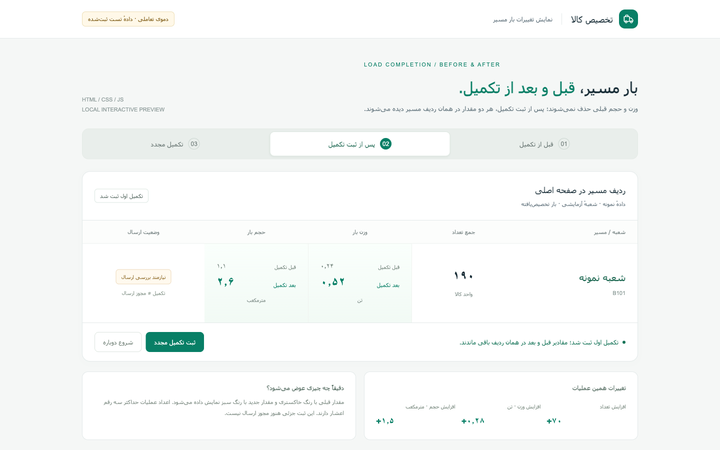
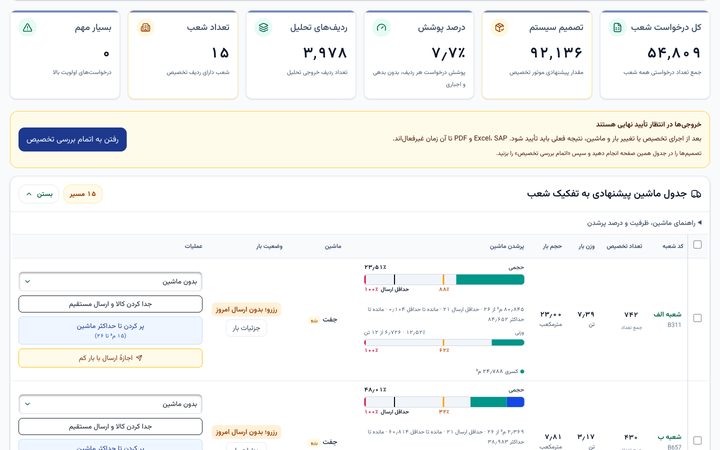
fix: use real Takhsis app screen with masked sample data

diff --git a/index.html b/index.html
@@ -445,7 +445,7 @@
             <div class="project-visual">
               <img
                 src="assets/card-thumbs/takhsis.png"
-                alt="Takhsis route load before-and-after comparison with sample data"
+                alt="Takhsis allocation dashboard with KPIs and per-branch vehicle plan (sample data)"
                 width="720"
                 height="450"
                 loading="lazy"
